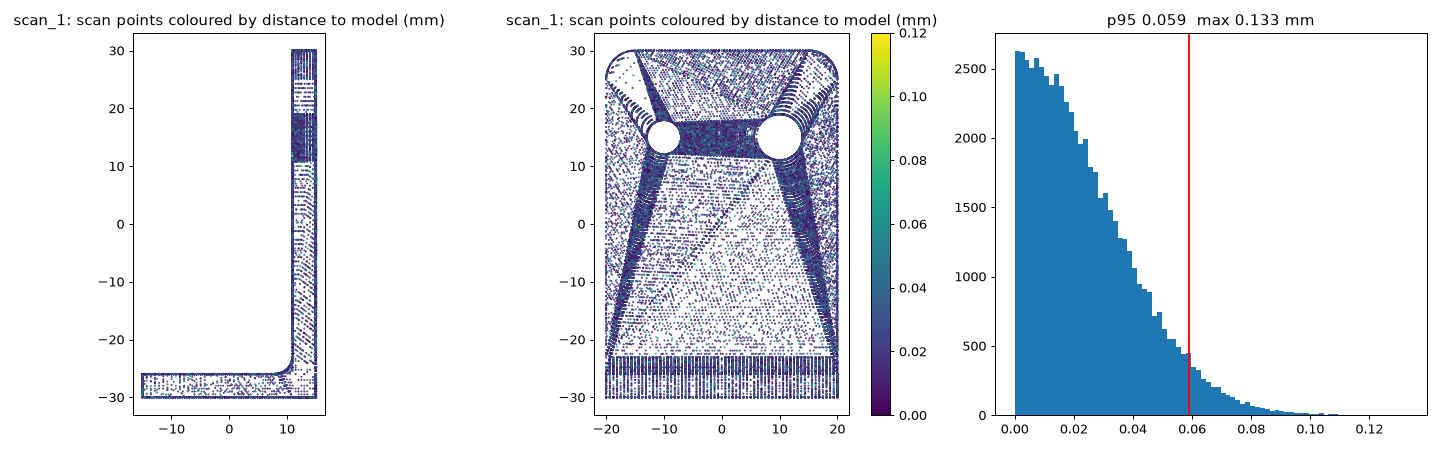
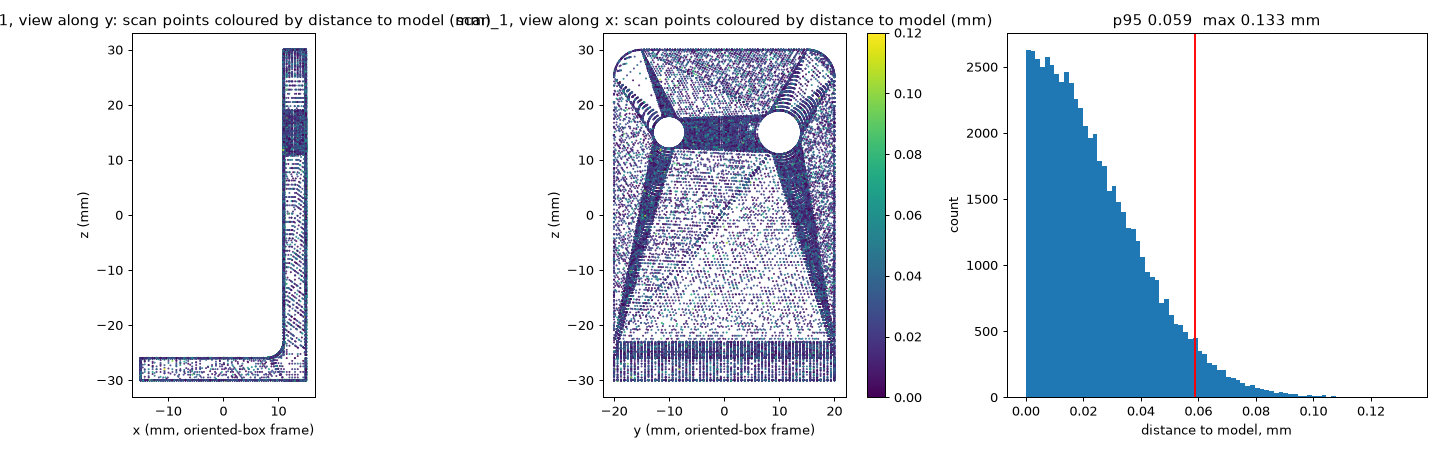
Solution README: simulated scans, how it was scored, method as actually run; tools moved, dead code removed, plot labels

diff --git a/solution/meas.py b/solution/meas.py
@@ -27,33 +27,6 @@ def load(i, refine=True):
     return m, mm, to, good
 
 
-def vert_normals(mm):
-    return mm.vertex_normals, mm.vertices
-
-
-def plane_peaks(mm, good, axis, sign, tol=0.97, bin=0.05, min_area=2.0):
-    n = mm.face_normals; c = mm.triangles_center; a = mm.area_faces
-    sel = good & (n[:, axis] * sign > tol)
-    v = c[sel, axis]; w = a[sel]
-    if len(v) == 0:
-        return []
-    h, e = np.histogram(v, bins=np.arange(v.min() - bin, v.max() + 2 * bin, bin), weights=w)
-    peaks = []
-    for k in np.argsort(-h):
-        if h[k] < min_area: break
-        x = (e[k] + e[k + 1]) / 2
-        if all(abs(x - p) > 0.5 for p, _ in peaks):
-            near = sel & (np.abs(c[:, axis] - x) < 0.3)
-            # area-weighted mean of the face centres in the band = plane position
-            peaks.append((float(np.average(c[near, axis], weights=a[near])), float(a[near].sum())))
-    return sorted(peaks)
-
-
-def fit_plane(pts):
-    c = pts.mean(0); u, s, vt = np.linalg.svd(pts - c)
-    return c, vt[2], float(np.abs((pts - c) @ vt[2]).std())
-
-
 def fit_cyl(pts, axis0, c0, r0):
     """Cylinder: axis direction (2 angles), point on axis (2 coords), radius."""
     axis0 = axis0 / np.linalg.norm(axis0)
@@ -71,35 +44,6 @@ def fit_cyl(pts, axis0, c0, r0):
     a, b, x, y, r = s.x
     d = axis0 + a * e1 + b * e2; d /= np.linalg.norm(d)
     return c0 + x * e1 + y * e2, d, abs(r), float(np.std(res(s.x)))
-
-
-def leftovers(mm, good, planes, tol=0.12, ntol=0.97):
-    """Faces not explained by any axis plane; planes = [(axis, sign, pos)]."""
-    n = mm.face_normals; c = mm.triangles_center
-    used = np.zeros(len(n), bool)
-    for ax, sg, pos in planes:
-        used |= (n[:, ax] * sg > ntol) & (np.abs(c[:, ax] - pos) < tol)
-    return good & ~used
-
-
-def clusters(mm, mask, eps=1.0, min_area=1.0):
-    from scipy.sparse.csgraph import connected_components
-    from scipy.sparse import coo_matrix
-    idx = np.where(mask)[0]
-    # connectivity through shared vertices
-    f = mm.faces[idx]
-    nv = len(mm.vertices)
-    rows = np.repeat(np.arange(len(idx)), 3); cols = f.ravel()
-    A = coo_matrix((np.ones(len(rows)), (rows, cols)), shape=(len(idx), nv)).tocsr()
-    G = A @ A.T
-    k, lab = connected_components(G, directed=False)
-    out = []
-    for j in range(k):
-        s = idx[lab == j]
-        ar = mm.area_faces[s].sum()
-        if ar >= min_area:
-            out.append(s)
-    return sorted(out, key=lambda s: -mm.area_faces[s].sum())
 
 
 def frame_from_axis(c, d):
@@ -131,24 +75,6 @@ def scan_to_model(scan_mesh, step_path, samples=60000):
     d = np.concatenate([trimesh.proximity.closest_point(mod, pts[k:k + 5000])[1] for k in range(0, len(pts), 5000)])
     scan_to_model.pts = pts
     return d, s
-
-
-def smooth_points(mm, good, radius=1.0, max_pts=None):
-    """Points = vertices of real (non-fill) triangles, normals from PCA of a radius neighbourhood."""
-    from scipy.spatial import cKDTree
-    vid = np.unique(mm.faces[good].ravel())
-    P = mm.vertices[vid]
-    tree = cKDTree(P)
-    nb = tree.query_ball_point(P, radius, workers=-1)
-    N = np.zeros_like(P); curv = np.zeros(len(P))
-    vn = mm.vertex_normals[vid]
-    for i, idx in enumerate(nb):
-        Q = P[idx] - P[idx].mean(0)
-        w, V = np.linalg.eigh(Q.T @ Q)
-        nrm = V[:, 0]
-        N[i] = nrm if nrm @ vn[i] >= 0 else -nrm
-        curv[i] = w[0] / max(w.sum(), 1e-12)
-    return P, N, curv
 
 
 def fit_circle2d(Q, guess):

diff --git a/solution/verify.py b/solution/verify.py
@@ -55,9 +55,12 @@ for i in (1, 2, 3):
     fig, ax = plt.subplots(1, 3, figsize=(16, 5))
     for k, (u, v) in enumerate(((0, 2), (1, 2))):
         sc = ax[k].scatter(P[:, u], P[:, v], c=dist, s=0.3, cmap='viridis', vmin=0, vmax=0.12)
-        ax[k].set_aspect('equal'); ax[k].set_title(f'scan_{i}: scan points coloured by distance to model (mm)')
+        ax[k].set_aspect('equal')
+        ax[k].set_title(f'scan_{i}, view along {"yx"[k]}: scan points coloured by distance to model (mm)')
+        ax[k].set_xlabel(f'{"xy"[k]} (mm, oriented-box frame)'); ax[k].set_ylabel('z (mm)')
     plt.colorbar(sc, ax=ax[1])
     ax[2].hist(dist, bins=80); ax[2].axvline(p95, color='r'); ax[2].set_title(f'p95 {p95:.3f}  max {mx:.3f} mm')
+    ax[2].set_xlabel('distance to model, mm'); ax[2].set_ylabel('count')
     fig.tight_layout(); fig.savefig(f'solution/img/deviation_{i}.png', dpi=90); plt.close(fig)
 rep["failed"] = fails
 json.dump(rep, open('solution/report.json', 'w'), indent=1, default=float)

diff --git a/solution/scan_2.py b/solution/scan_2.py
@@ -70,5 +70,5 @@ dims = [{"type": "hole_diameter", "value": round(2 * cb_r, 3), "name": "counterb
 json.dump({"dims": dims}, open('solution/scan_2_peer.json', 'w'), indent=1)
 print(json.dumps(dims), 'chamfer', round(C, 3), 'pocket round', round(R_pk, 3), use_pk_round)
 d_, s_ = M.scan_to_model(m, 'solution/scan_2.step')
-np.save('solution/_d2.npy', d_)
+
 print('scan->model p95 %.4f max %.4f mean %.4f volume %.1f' % (np.percentile(d_, 95), d_.max(), d_.mean(), s_.volume))

diff --git a/solution/README.md b/solution/README.md
@@ -1,7 +1,10 @@
 # Solution: scan to parametric STEP
 
-Each part is rebuilt in build123d from planes and cylinders only. No mesh or faceted face is used. Each model is
-placed back in the scan's own position and rotation, so the scan-to-model deviation can be measured directly.
+The three scans are simulated. The brief's author generated them from CAD parts, added about 0.03 mm of Gaussian
+noise, punched one or two holes, and rotated them at random. They are not real scanner data.
+
+Each part is rebuilt in build123d from planes and cylinders only, with no mesh or faceted face. Each model is put back
+in the scan's own position and rotation, so the scan-to-model deviation can be measured directly.
 
 | Part | Rebuilt as | Scan → model (mm) |
 |---|---|---|
@@ -9,59 +12,83 @@ placed back in the scan's own position and rotation, so the scan-to-model deviat
 | scan_2 | Block 30.00 × 40.00 × 60.00. 45° chamfer 1.50 on the four edges of the machined face. Pocket 20.00 × 24.00 × 8.00 deep. Counterbore Ø10.999 × 6.50 deep, coaxial with a Ø6.600 through hole | p95 0.059, max 0.126 |
 | scan_3 | Turned shaft 75.00 long: Ø13.999 × 20.0, Ø19.996 (split by a 2.003 wide groove, groove bottom Ø16.990), Ø27.991 × 25.0 | p95 0.059, max 0.134 |
 
-The noise in the brief is 0.03 mm. A p95 of 0.059 mm is about 2σ, which is what a correct surface gives on its own.
+With 0.03 mm noise, a p95 of 0.059 mm is about 2σ. That shows the fit is consistent with the noise. The error against
+the true part is known only from the scoring below.
 
-Every declared value is the measured value, not rounded to a nominal size. The model is built from the same numbers,
-so each value in `scan_i_peer.json` is also a dimension of `scan_i.step`. `verify.py` reads them back from the STEP.
+Every declared value is the measured value, not rounded to a nominal size, and the model is built from the same
+numbers. `verify.py` checks the declared diameters and bbox against the STEP. It is a consistency check, not an
+accuracy check.
+
+## How it was scored
+
+The solution was built blind: I never saw the reference models. The brief's author scored it once against the hidden
+references, and all three parts passed.
+
+- Hausdorff distance to the reference was 0.0069 / 0.0023 / 0.0051 mm (max).
+- Declared dimensions were within 0.01 mm.
+- Volume was within 0.05 %, and 100 % of the faces were analytic.
+
+These figures come from simulated scans with known noise. They show that the method works on clean synthetic data, not
+that a real scanner would reach 0.01 mm.
 
 ## Method
 
-1. Frame. The scan is moved into its oriented bounding box (trimesh). For scan_2, the box frame was then
-   re-aligned on the measured normals of the large flat faces: the minimum-volume box was 0.8° off because of the
-   chamfers and the pocket, which put scan points 0.4 mm outside the model. For scan_1 the plain box frame fits the
-   scan better (p95 0.059 against 0.067), so it was kept. In both cases the frame was chosen by fit to the scan, not
-   by any knowledge of the reference.
-2. Scanner holes. The patched holes in the scan show up as fill triangles more than 20 times the median area.
-   They are left out of every fit.
-3. Planes. Take the triangles whose normal is within 11° of an axis. Their area-weighted histogram gives the
-   plane candidates. Each plane position is the area-weighted mean of the triangle centres within ±0.3 mm of a peak.
-4. Holes and turned diameters. Geometric least-squares circle (soft-L1 loss) on the vertices of each bore,
-   taken away from its ends. For scan_3 the axis is a 3D least-squares cylinder fit on the Ø20 section. Each
-   diameter is then the mean radial distance of the vertices in its section, keeping only vertices whose normal is
-   radial.
-5. Rounds. Fit with the arc tangent to both neighbouring planes, so only R is free. A free circle fit gave
-   R 2.87 for the inner bend with an off-tangent centre. The tangent fit gives 2.99 with an RMS residual of 0.030 mm,
-   equal to the scan noise. Grid search on the RMS, because a bounded optimiser stopped at a false minimum on one corner.
-6. Chamfers (scan_2). The 45° plane u + w = c is fitted on the points between depth and inset 0.2–1.4 mm, one
-   per edge. The four legs are 1.51 / 1.49 / 1.50 / 1.57 mm; their mean is 1.50.
-7. Pocket corners (scan_2). A tangent-round fit found fewer than 10 points per corner, so the corners are taken
-   as sharp. A cutter radius smaller than about 0.5 mm cannot be resolved at this noise.
+1. Frame.
+   - Each scan is moved into its oriented bounding box (trimesh).
+   - For scan_2 and scan_3, the box frame is then re-aligned on the measured normals of the flat faces. On scan_2
+     the minimum-volume box was 0.8° off because of the chamfers and the pocket, which left scan points 0.4 mm
+     outside the model.
+   - For scan_1 the plain box frame fits the scan better (p95 0.059 against 0.067), so it was kept.
+   - In every case the frame was chosen by its fit to the scan, never by any knowledge of the reference.
+2. Scanner holes. The patched holes show up as fill triangles more than 20 times the median area. They are left
+   out of every fit.
+3. Planes.
+   - I read the rough position of each plane off section plots (`tools/slices.py`) and the per-axis plane list
+     from `tools/inspect_scan.py`.
+   - The measured position is the area-weighted mean of the centres of the triangles that face along that axis
+     (normal within 11°), within ±0.3 mm of the rough value.
+4. Holes and turned diameters.
+   - Holes: a geometric least-squares circle (soft-L1 loss) on the vertices of each bore, taken away from its ends.
+   - scan_3: the axis comes from a 3D least-squares cylinder fit on the Ø20 section. Each diameter is then the mean
+     radial distance of the vertices in its section, keeping only vertices whose normal is radial.
+5. Rounds.
+   - Each round is fitted with the arc tangent to both neighbouring planes, so only R is free.
+   - A free circle fit gave R 2.87 for the inner bend, with a centre that was not tangent. The tangent fit gives 2.99,
+     with an RMS residual of 0.030 mm, which equals the scan noise.
+   - R is found by grid search on the RMS, because a bounded optimiser stopped at a false minimum on one corner.
+6. Chamfers (scan_2). The 45° plane u + w = c is fitted on the points between 0.2 and 1.4 mm in depth and inset,
+   one fit per edge. The four legs are 1.51, 1.49, 1.50 and 1.57 mm, with a mean of 1.50.
+7. Pocket corners (scan_2).
+   - The tangent-round fit finds about R 1.50 at all four corners, but on only 21 points per corner. The code needs
+     100 points before it accepts a round, so the corners are modelled sharp.
+   - That choice passed the scoring. Whether the reference corners are sharp or have a small cutter radius is not
+     shown.
 
 ## Declared dimensions
 
-- scan_1:
-  - Plate thickness is the upright, along x. The base is 4.001 and is not declared.
-  - The distance is centre to centre in the plane of the upright.
-- scan_2:
-  - Distance = pocket centre to the hole axis, projected on the long (60 mm) axis, as the brief owner defined it.
-  - Depths are measured from the machined face to the pocket floor and to the counterbore floor.
-- All parts: bbox is measured in the part's own axes. `verify.py` checks it against the oriented bounding box of
-  the STEP itself. Use the STL, not B-rep vertices, which miss the cylinder silhouettes.
+For scan_1, the plate thickness is the upright's, measured along x. The base is 4.001 thick and is not declared. The
+hole distance is measured centre to centre in the plane of the upright.
+
+For scan_2, the brief's author clarified the definition of the distance before I solved the part: it runs from the
+pocket centre to the hole axis, projected on the long (60 mm) axis. The depths are measured from the machined face to
+the pocket floor and to the counterbore floor.
+
+For every part, the bbox is measured in the part's own axes. `verify.py` compares it with the oriented bounding box of
+the STEP's own STL; B-rep vertices are not used, because they miss the cylinder silhouettes.
 
 ## Files
 
 | File | What |
 |---|---|
-| `scan_i.step` | the rebuilt solid (one solid, 100 % planes and cylinders) |
+| `scan_i.step` | the rebuilt solid (one solid, planes and cylinders only), exactly as scored |
 | `scan_i_peer.json` | the declared dimensions |
-| `scan_i.py` | measure and rebuild one part; prints the fits |
+| `scan_i.py` | measures and rebuilds one part, and prints the fits |
 | `meas.py` | frame, plane, circle, cylinder and tangent-round fits |
 | `verify.py` → `report.json` | one solid, analytic area ≥ 90 %, declared diameters and bbox found on the STEP, scan-to-model p95 ≤ 0.08 |
-| `img/deviation_i.png` | scan points coloured by distance to the model, with a histogram |
-| `img/scan_i_iso*.png`, `slices.py`, `view_scan.py`, `inspect_scan.py` | how the parts were read |
+| `img/deviation_i.png` | scan points coloured by distance to the model, two views and a histogram |
+| `img/scan_i_iso*.png` | the raw scans; the scanner holes appear filled by long triangles from the mesher |
+| `tools/` | `inspect_scan.py`, `slices.py`, `view_scan.py`: how the parts were read |
+| `requirements.txt` | Python packages |
 
-## What could not be checked here
-
-- Deviation to the hidden reference, hole-centre and depth errors against it, and volume error. Only the grader has
-  the reference.
-- Small edge breaks or cutter radii below about 0.5 mm. They are within the noise and are modelled as sharp.
+`scan_1.py` keeps its original plane seeds (14.99 / 10.99). Rounding them to 15.0 / 11.0 gives the same declared values
+but moves one STEP coordinate by 6e-6 mm, and the scored file should stay reproducible.
